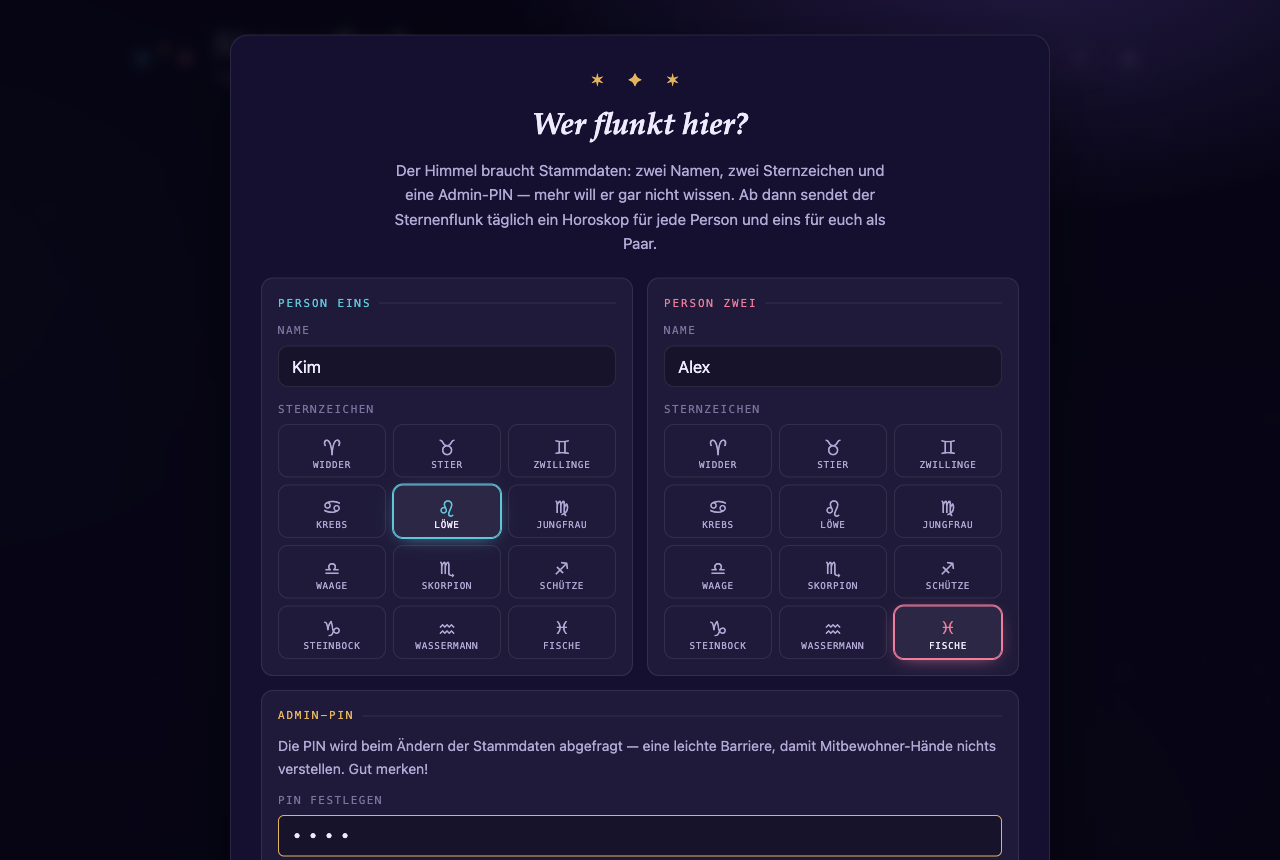
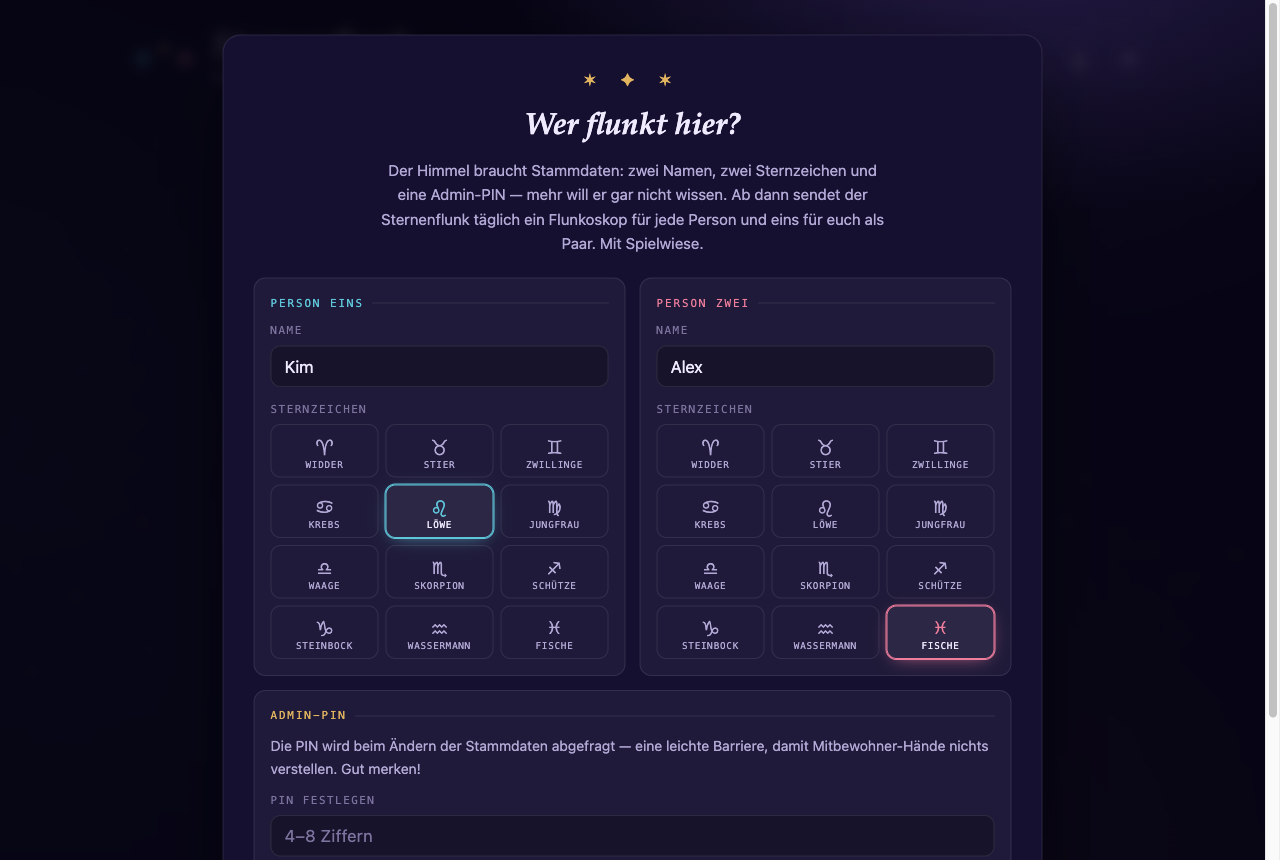
Doku: Screenshots für 2.1 neu aufgenommen, Galerie und Dateiübersicht aktualisiert
- Alle Screenshots neu (Stand 2.1.0, Referenzpaar Kim & Alex, 31.10.2026)
- Neu in der Galerie: Sendestart-Vorspann, Spielwiese, Sonntagsrätsel, Sofa-Modus
- Dateiübersicht um Crossword.php, motion.js, games.js ergänzt
- PDF-Seitenzahl nicht mehr fest auf fünf

diff --git a/README.md b/README.md
@@ -79,7 +79,7 @@ wie Schicksal anfühlt.
 - **Charts, handgerollt in SVG:** Radar, Energie-Kurven mit gemeinsamem
   Energiefenster (Hover-Tooltip!), Battle-Duell, Meter. Keine Bibliotheken.
 - **Amtlicher Tagesbericht als PDF ⤓:** Ein Klick neben dem Zahnrad bannt
-  den angezeigten Tag — auch jeden Archiv-Tag — auf fünf A4-Seiten im
+  den angezeigten Tag — auch jeden Archiv-Tag — auf mehreren A4-Seiten im
   App-Look: Cover mit kosmischer Großwetterlage, Paar-Protokoll, beide
   Personen, sämtliche Charts, Nachthimmel inklusive. Entsteht komplett im
   Browser (handgerollter PDF-Writer, natürlich ohne Bibliotheken) — zum
@@ -105,13 +105,30 @@ wie Schicksal anfühlt.
 
 ## Screenshots
 
-| Onboarding — „Wer flunkt hier?" | Paar-Protokoll mit Orbit-Duett |
-|---|---|
-| ![Onboarding](docs/screenshots/onboarding.png) | ![Paar-Ansicht](docs/screenshots/paar.png) |
+**Sendestart** — der tägliche Vorspann: Zeichen fliegen ein, umkreisen sich,
+Sternen-Burst, dann eure Namen und die Kompatibilität des Tages.
 
-| Personen-Flunkoskop | Admin mit PIN | Mobil |
-|---|---|---|
-| ![Personen-Ansicht](docs/screenshots/person.png) | ![Admin-Modal](docs/screenshots/admin.png) | ![Mobile](docs/screenshots/mobile.png) |
+![Vorspann](docs/screenshots/vorspann.png)
+
+| Paar-Protokoll mit Orbit-Duett & Sternbild | Spielwiese |
+|---|---|
+| ![Paar-Ansicht](docs/screenshots/paar.png) | ![Spielwiese](docs/screenshots/spielwiese.png) |
+
+| Sonntagsrätsel mit Lösungswort | Sofa-Modus |
+|---|---|
+| ![Sonntagsrätsel](docs/screenshots/raetsel.png) | ![Sofa-Modus](docs/screenshots/sofa.png) |
+
+| Personen-Flunkoskop | Mobil |
+|---|---|
+| ![Personen-Ansicht](docs/screenshots/person.png) | ![Mobile](docs/screenshots/mobile.png) |
+
+| Onboarding — „Wer flunkt hier?" | Admin mit PIN |
+|---|---|
+| ![Onboarding](docs/screenshots/onboarding.png) | ![Admin-Modal](docs/screenshots/admin.png) |
+
+*Alle Screenshots mit dem Referenzpaar Kim (Löwe) & Alex (Fische) vom 31.10.2026 (Halloween, daher die
+Fledermäuse) — der Generator ist deterministisch, dieselben Stammdaten ergeben am selben Tag exakt
+dieselben Bilder.*
 
 ## Schnellstart
 
@@ -154,7 +171,14 @@ lib/Couple.php              Stammdaten: laden, validieren, speichern, coupleKey
 lib/Astro.php               Mond, Sonne, Saison, Merkur, Numerologie
 lib/Content.php             Alle Textpools (die Flunk-Redaktion)
 lib/HoroscopeGenerator.php  Baut den Tag aus Pools + Astronomie + Paar
-assets/                     CSS (Cosmic Dark) + JS (Charts, Widgets, PDF-Writer, Tagesbericht, App)
+lib/Crossword.php           Sonntagsrätsel: freies Kreuzworträtsel mit Lösungswort
+assets/css/styles.css       Cosmic Dark, Motion (Reveal, Nebel, Rätsel-Papier)
+assets/js/app.js            State, Router, Rendering der vier Ansichten, Sofa-Modus
+assets/js/charts.js         Handgerollte SVGs: Radar, Energie, Orbit-Duett, Sternbild
+assets/js/motion.js         Sendestart-Vorspann, Karten-Reveal, Hochzähler, Mond, Puls
+assets/js/games.js          Spielwiese: Rubbellos, Rad, Wer-von-euch, Funkspruch, Rätsel
+assets/js/widgets.js        Sternenhimmel, Kalender, Orakel, Konfetti, Countdown
+assets/js/pdf.js, report.js PDF-Writer + Tagesbericht (komplett im Browser)
 data/couple.json            Stammdaten des Paares (entsteht beim Onboarding)
 data/days/                  Eingefrorene Tage (YYYY-MM-DD.json)
 tools/deploy-acc.sh         Deploy → Synology ACC (+ Smoke-Check)
